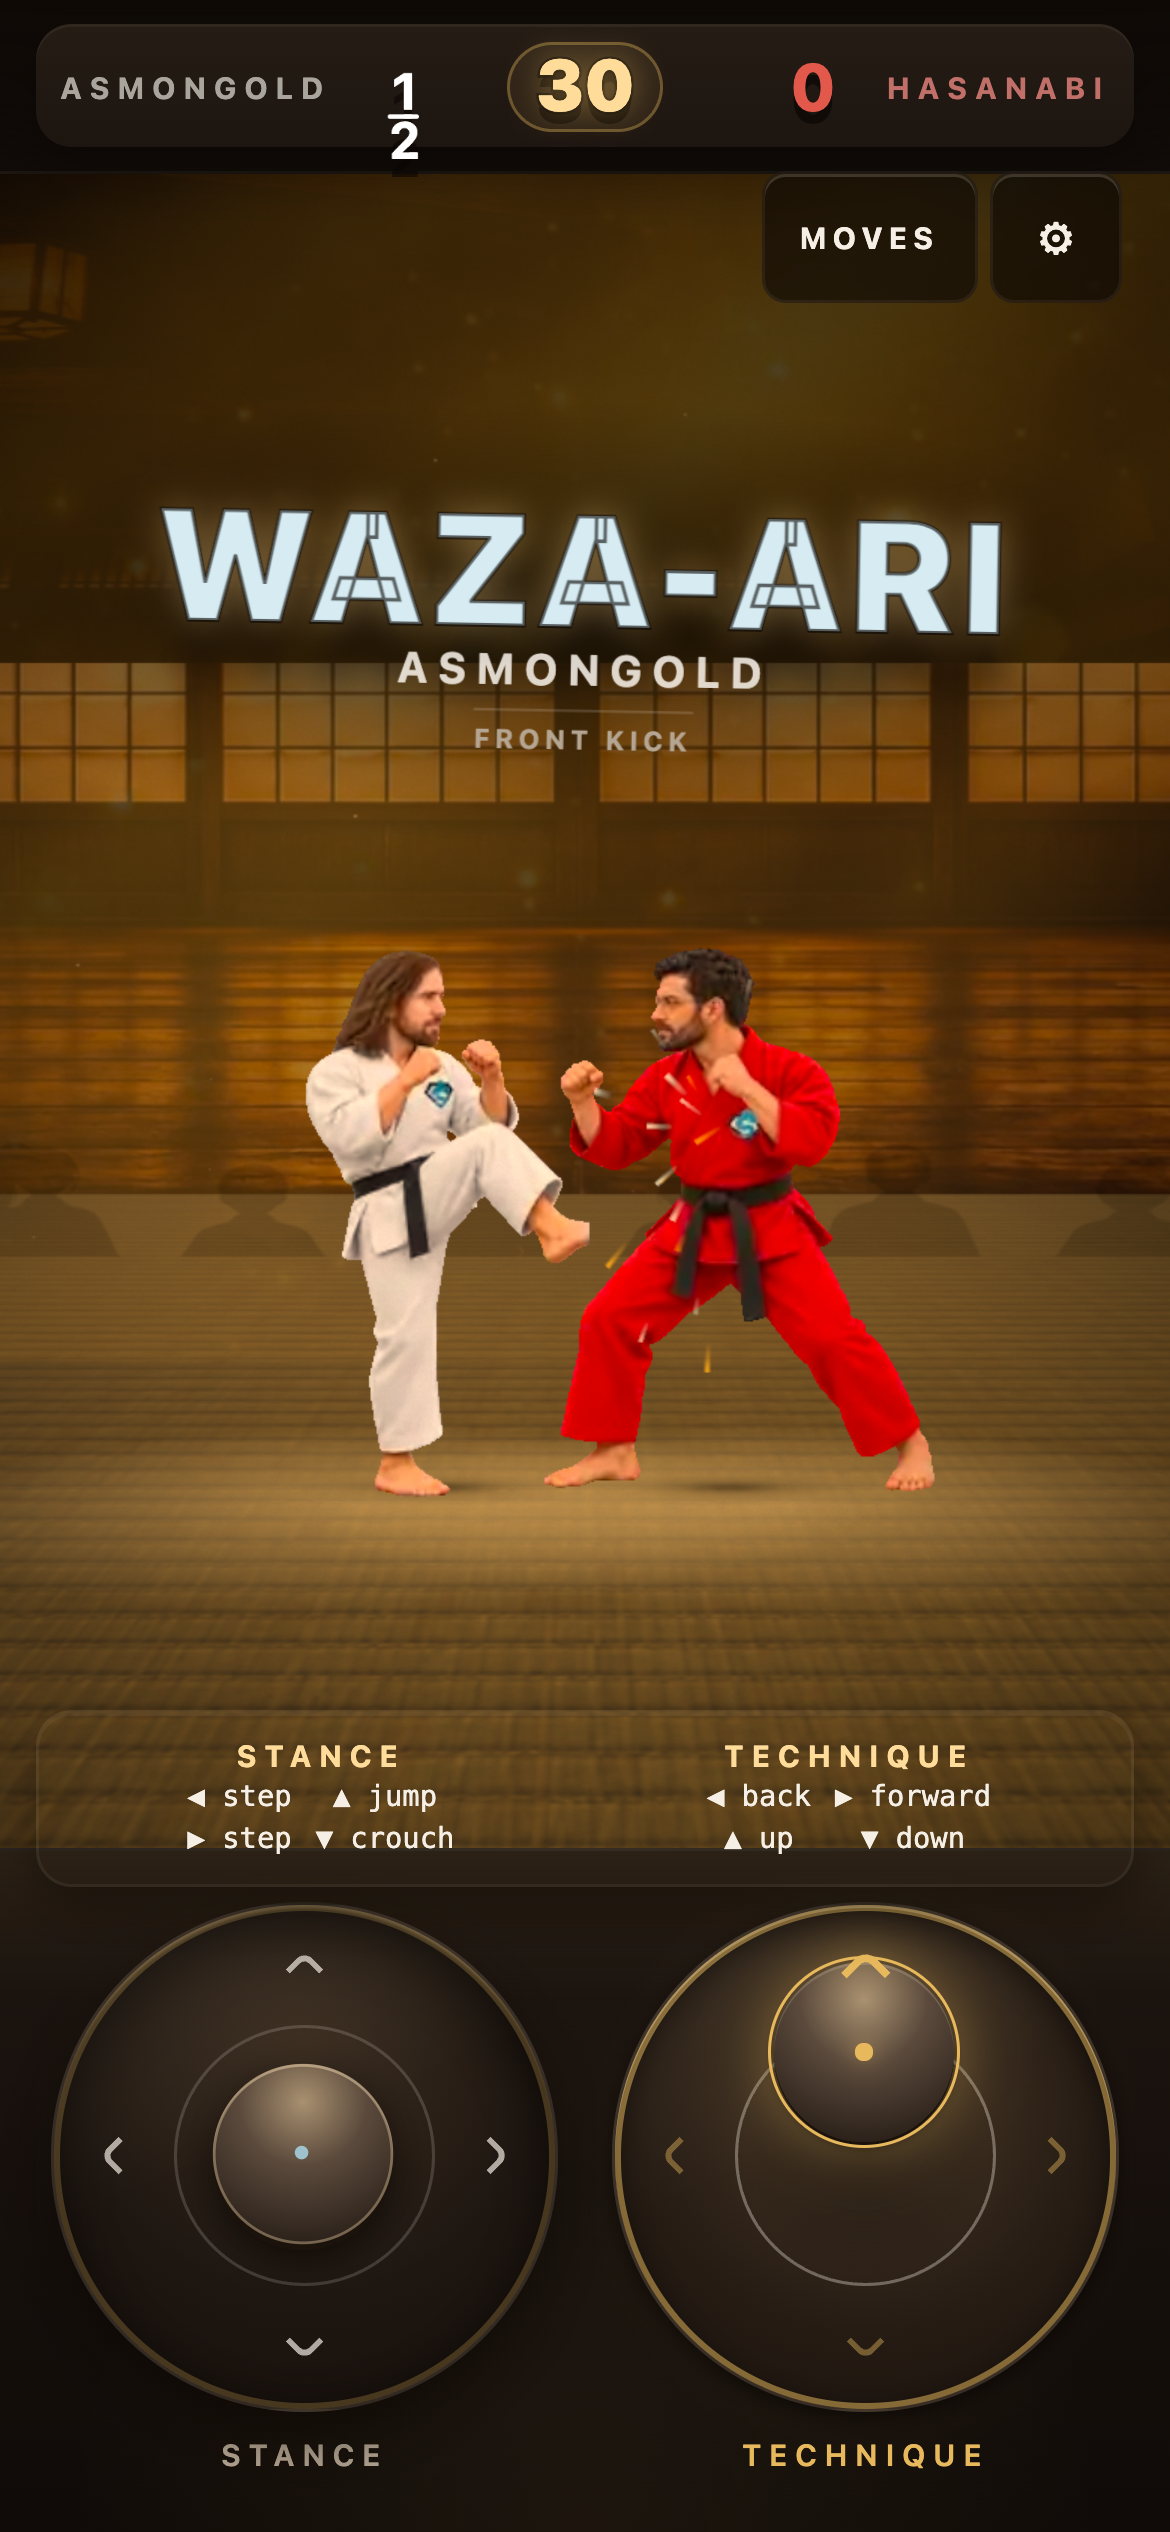
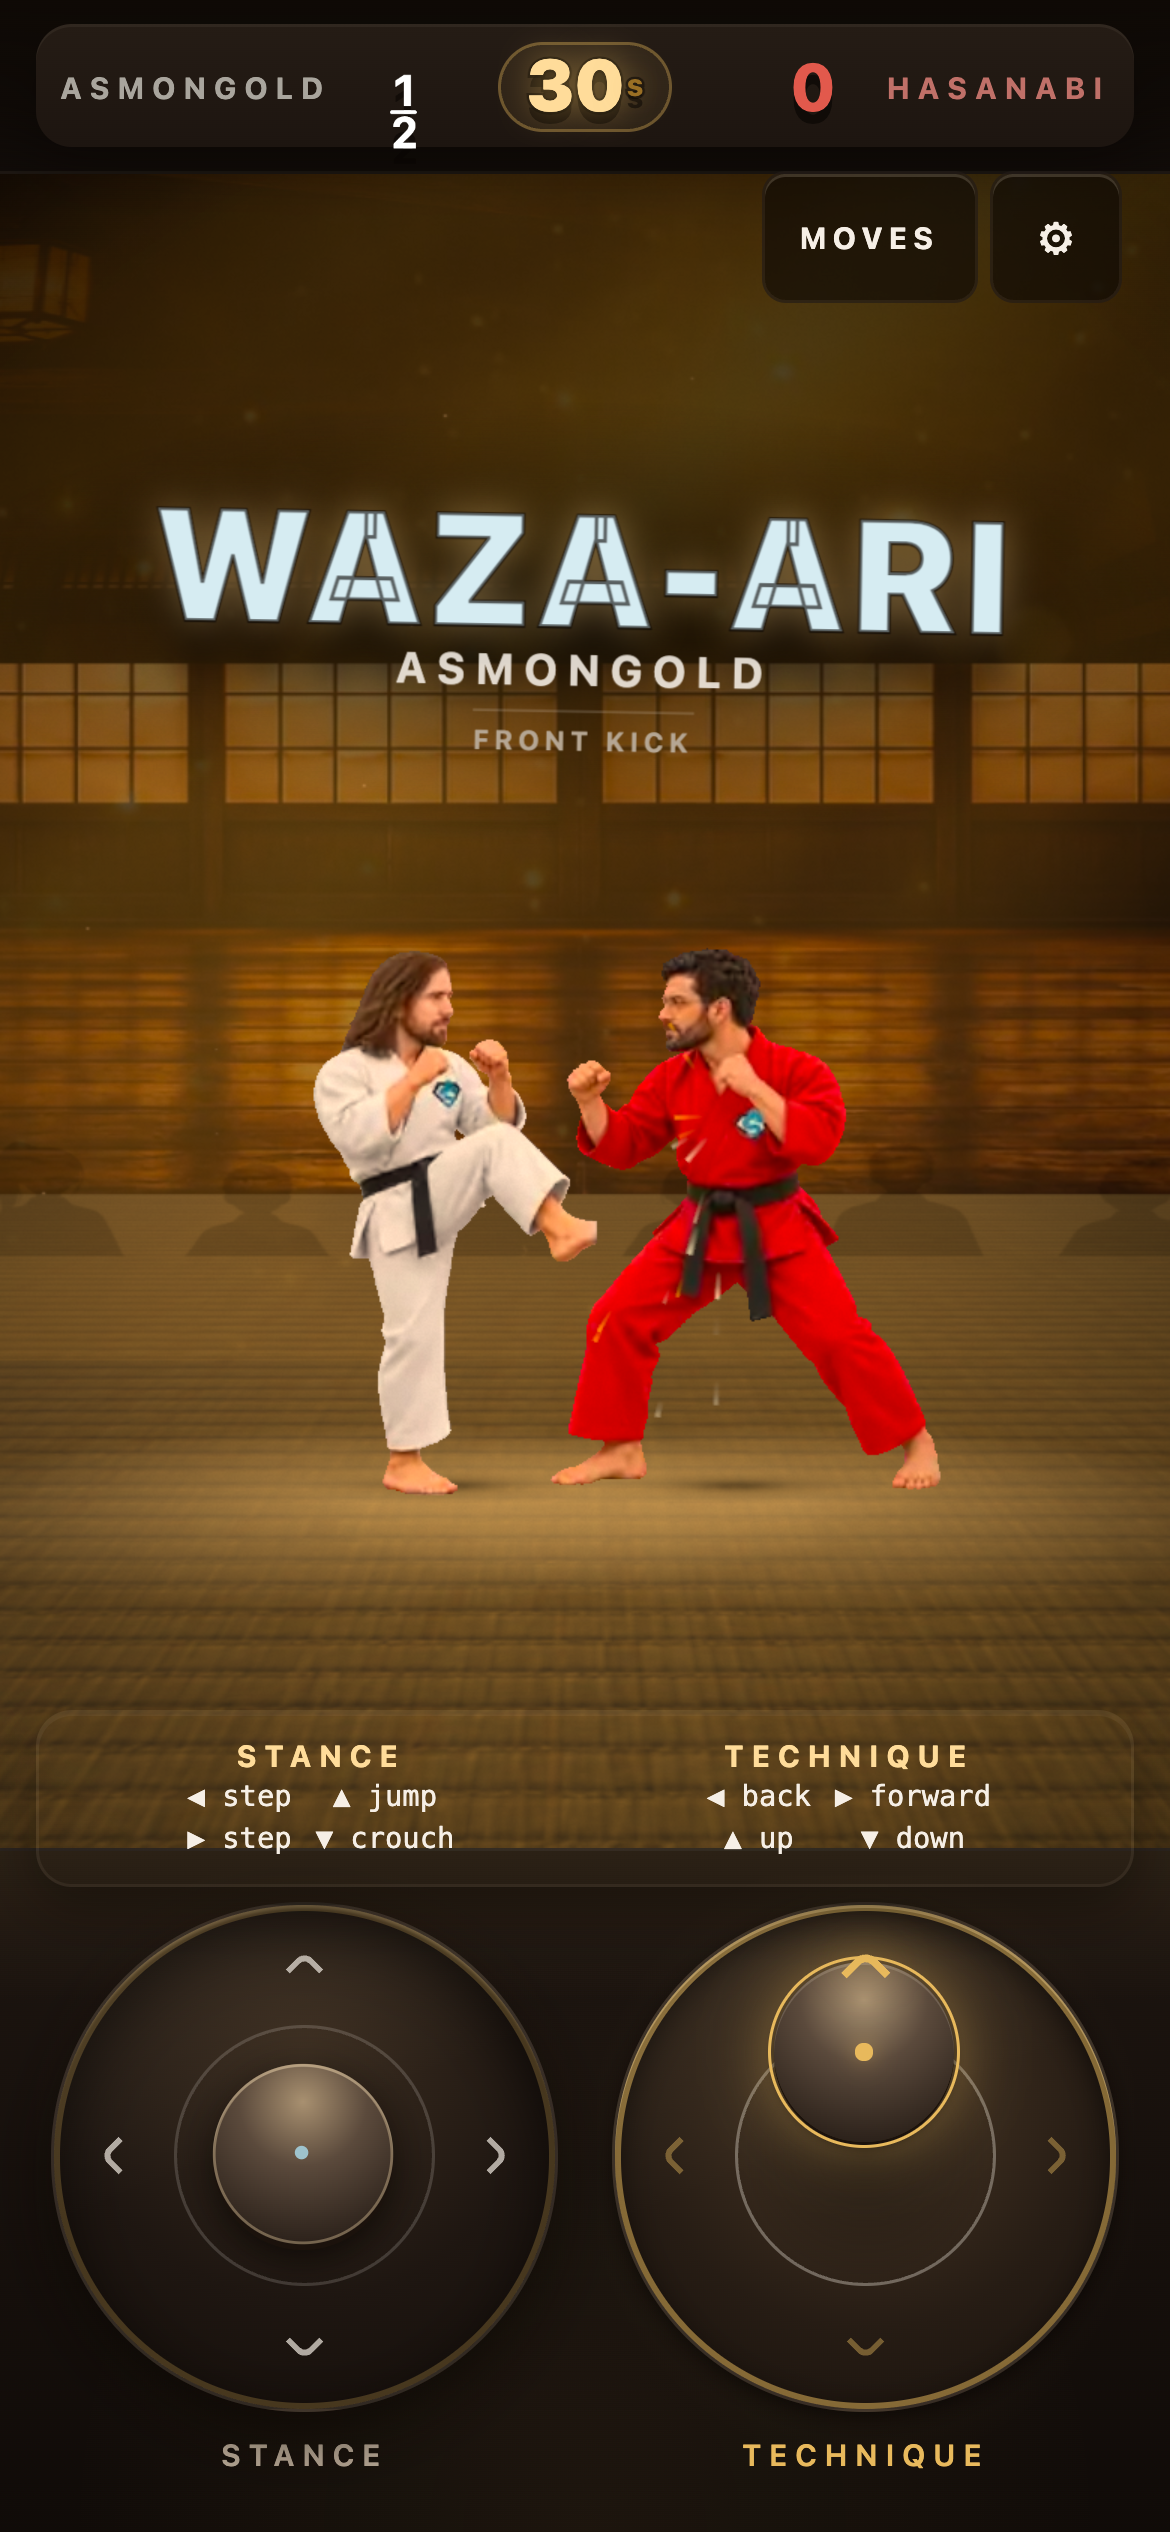
fix(hud): the round clock is 29s, and it took thirty rounds to say so
gpt-5.6-luna, round 56: "explain the unlabeled gold number in the match HUD."

Exactly the same shape as the FIGHT button's countdown, three fixes earlier: a
number in the middle of the scoreline that reads as another score until
something says what it counts. Round 26 gave it a dial, which moved it from "a
number" to "a number in a box" — better, and still not labelled. A model looked
at it again thirty rounds later and called it precisely what it was.

One lowercase letter, small, baseline-aligned, inside the dial. It is the
difference between a number and a quantity, it costs no width, and it is what
every scoreboard in every sport has always done. The accessible name says
"29 seconds remaining" rather than making a screen reader spell out a letter.

**The same class of defect has now been reported and fixed three times — the
bout countdown, the half-point notation, and this — and each time the first fix
moved the thing one step from "unreadable" toward "obvious" without crossing
the line.** The lesson is not "label things", it is that a first attempt at
disambiguation is usually worth about half the distance and gets reported again
later, and that is fine, and the second report is not a stale finding.

diff --git a/apps/game/src/styles.css b/apps/game/src/styles.css
@@ -799,6 +799,26 @@ body.show-perf #backend {
    frame makes the middle numeral an instrument at a glance without touching
    the type: the two scores stay bare and flat, and the clock is the only
    boxed thing in the bar. */
+/* The unit. A bare gold numeral in a dial, with nothing saying what it counts,
+   is the same class of problem as the FIGHT button's countdown and it took the
+   same shape of report: a gold number in the middle of a scoreline reads as
+   another score until something says otherwise. Round 26 gave it a dial; that
+   moved it from "a number" to "a number in a box", and gpt-5.6-luna in round 56
+   still called it "the unlabeled gold number in the match HUD".
+
+   One lowercase letter, set small and baseline-aligned inside the dial. It is
+   the difference between a number and a quantity, it costs no width, and it is
+   what every scoreboard in every sport has always done. */
+#timer::after {
+  content: 's';
+  display: inline-block;
+  margin-inline-start: 0.08em;
+  font-size: 0.42em;
+  font-weight: var(--weight-bold);
+  color: var(--gold-deep);
+  translate: 0 -0.5em;
+}
+
 #timer {
   min-width: 2.6ch;
   padding: 0.06em 0.34em 0.1em;

diff --git a/apps/game/src/hud.ts b/apps/game/src/hud.ts
@@ -146,7 +146,11 @@ export class Hud {
       if (score > this.lastScores[index]) Hud.replay(el, 'pop');
       this.lastScores[index] = score;
     }
-    this.timer.textContent = String(Math.ceil(state.timerTicks / 60));
+    const seconds = Math.ceil(state.timerTicks / 60);
+    this.timer.textContent = String(seconds);
+    // The unit is a visual mark only; the accessible name says the word, so a
+    // screen reader does not have to spell out "s".
+    this.timer.setAttribute('aria-label', `${seconds} seconds remaining`);
 
     if (this.bannerUntil !== 0 && nowMs > this.bannerUntil) {
       this.banner.classList.remove('show');
